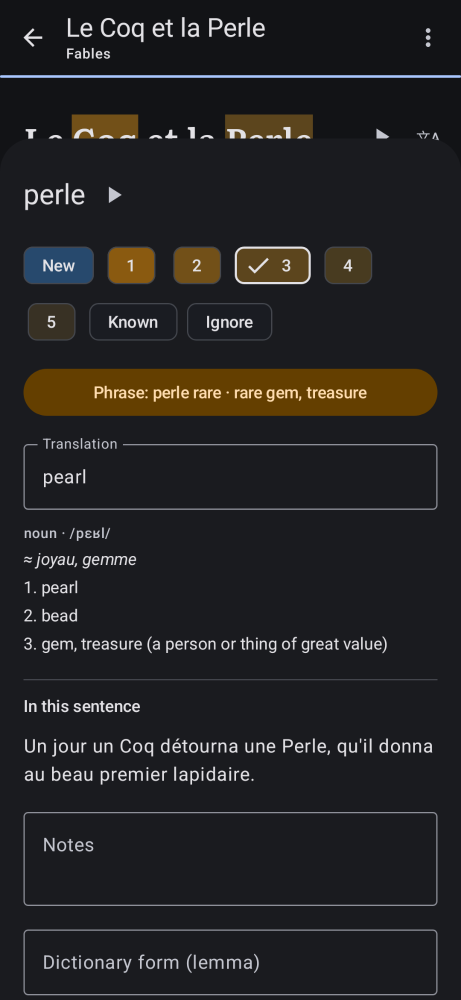
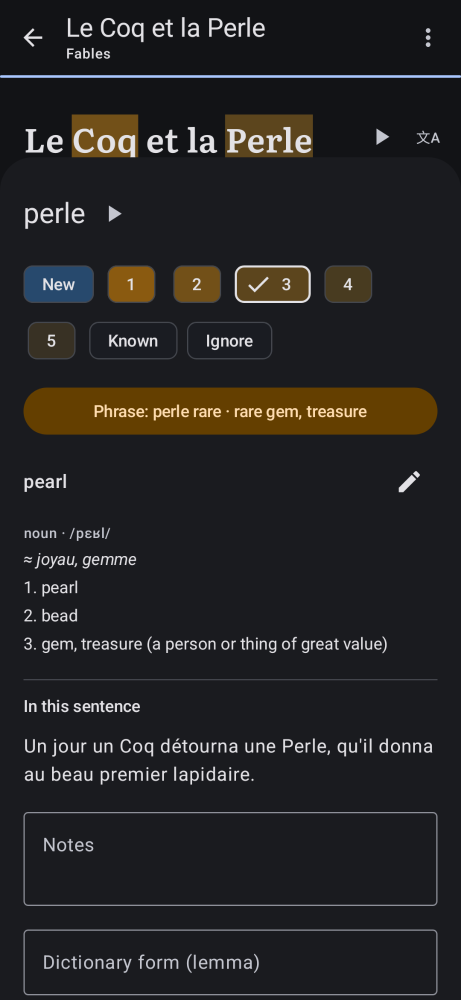
feat(android): the drawer shows the translation as text with an edit button
Claude-Session: https://claude.ai/code/session_01JqSuo8NKpRmXNi7JhUvRyo

diff --git a/android/app/src/main/java/io/github/chflick/allreads/ui/reader/WordSheet.kt b/android/app/src/main/java/io/github/chflick/allreads/ui/reader/WordSheet.kt
@@ -12,6 +12,12 @@ import androidx.compose.material3.IconButton
 import androidx.compose.material3.Icon
 import androidx.compose.material.icons.filled.PlayArrow
 import androidx.compose.material.icons.Icons
+import androidx.compose.material.icons.filled.Edit
+import androidx.compose.foundation.text.KeyboardActions
+import androidx.compose.foundation.text.KeyboardOptions
+import androidx.compose.ui.focus.FocusRequester
+import androidx.compose.ui.focus.focusRequester
+import androidx.compose.ui.text.input.ImeAction
 import android.content.ActivityNotFoundException
 import android.content.Intent
 import android.net.Uri
@@ -256,16 +262,36 @@ fun WordSheetContent(
                 color = MaterialTheme.colorScheme.onSurfaceVariant,
             )
         }
-        if (revealed) OutlinedTextField(
-            value = translation,
-            onValueChange = {
-                draft.translation = it
-                draft.typed = true
-            },
-            label = { Text("Translation") },
-            singleLine = true,
-            modifier = Modifier.fillMaxWidth(),
-        )
+        // The translation reads as text; ✎ opens the field for the rare correction.
+        var editing by rememberSaveable(word.text) { mutableStateOf(false) }
+        if (revealed && editing) {
+            val focus = remember { FocusRequester() }
+            LaunchedEffect(Unit) { focus.requestFocus() }
+            OutlinedTextField(
+                value = translation,
+                onValueChange = {
+                    draft.translation = it
+                    draft.typed = true
+                },
+                label = { Text("Translation") },
+                singleLine = true,
+                keyboardOptions = KeyboardOptions(imeAction = ImeAction.Done),
+                keyboardActions = KeyboardActions(onDone = { editing = false }),
+                modifier = Modifier.fillMaxWidth().focusRequester(focus),
+            )
+        } else if (revealed) {
+            Row(verticalAlignment = Alignment.CenterVertically) {
+                Text(
+                    translation.ifBlank { "No translation yet" },
+                    style = MaterialTheme.typography.titleMedium,
+                    color = if (translation.isBlank()) MaterialTheme.colorScheme.onSurfaceVariant else MaterialTheme.colorScheme.onSurface,
+                    modifier = Modifier.weight(1f),
+                )
+                IconButton(onClick = { editing = true }) {
+                    Icon(Icons.Default.Edit, contentDescription = "Edit the translation")
+                }
+            }
+        }
         OfflineDictionary(word, dictionaryDownload, onShowLemma, onDownloadDictionary, revealed)
         if (!revealed) {
             FilledTonalButton(onClick = { revealed = true }, modifier = Modifier.fillMaxWidth()) {
